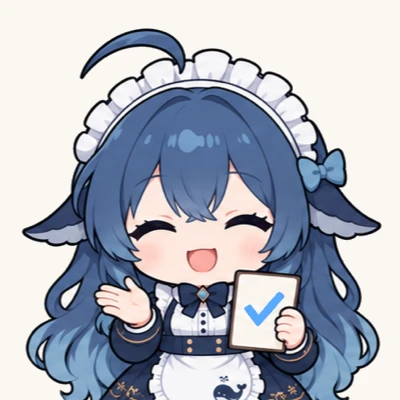
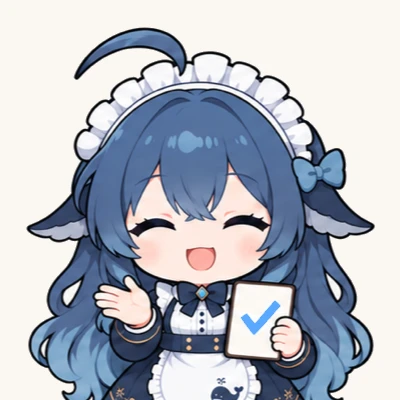
fix: clarify maid completion gesture and loop greeting

Changed region(s): [[0.03, 0.06, 0.96, 1.0], [0.48, 0.33, 0.54, 0.36]]

diff --git a/test/maid.test.ts b/test/maid.test.ts
@@ -62,7 +62,7 @@ test('half-body and centred portraits both use the complete canvas without a sec
 })
 
 type Manifest = {
-  source: { revision: string },
+  source: { revision: string, overrides?: { path: string, revision: string, manifestSha256: string } },
   encoding: { lossless: boolean, quality: number },
   states: Array<{ id: string, static: string, animation: string, frames: number, loopCount: number, staticSize: number[], animationSize: number[], durationsMs: number[] }>,
   sourceSha256: Record<string, string>,
@@ -97,7 +97,7 @@ function dimensionsOf(chunks: ReturnType<typeof chunksOf>): number[] {
   return [lossy.data.readUInt16LE(6) & 0x3fff, lossy.data.readUInt16LE(8) & 0x3fff]
 }
 
-test('runtime assets match their hashes, real dimensions, frame timings and greeting-only single playback', () => {
+test('runtime assets match their hashes, real dimensions, frame timings and framing-specific playback', () => {
   for (const directory of [ASSETS, path.join(ASSETS, 'avatars')]) {
     const manifest = JSON.parse(fs.readFileSync(path.join(directory, 'manifest.json'), 'utf8')) as Manifest
     assert.match(manifest.source.revision, /^[a-f0-9]{40}$/)
@@ -122,10 +122,47 @@ test('runtime assets match their hashes, real dimensions, frame timings and gree
         assert.equal(chunks.filter(chunk => chunk.kind === 'ANMF').length, state.frames)
         assert.deepEqual(dimensionsOf(chunks), state.animationSize)
         assert.deepEqual(chunks.filter(chunk => chunk.kind === 'ANMF').map(chunk => chunk.data.readUIntLE(12, 3)), state.durationsMs)
-        assert.equal(anim.data.readUInt16LE(4), state.id === 'greeting' ? 1 : 0, state.id)
+        const expectedLoops = state.id === 'greeting' && directory !== ASSETS ? 1 : 0
+        assert.equal(anim.data.readUInt16LE(4), expectedLoops, `${path.basename(directory)}/${state.id}`)
         assert.equal(anim.data.readUInt16LE(4), state.loopCount)
       }
     }
+  }
+})
+
+test('the half-body greeting keeps waving and completion lifts the card with a held thumbs-up', () => {
+  const manifest = JSON.parse(fs.readFileSync(path.join(ASSETS, 'manifest.json'), 'utf8')) as Manifest
+  const greeting = manifest.states.find(state => state.id === 'greeting')!
+  assert.equal(greeting.loopCount, 0)
+  assert.equal(greeting.frames, 15)
+  assert.equal(greeting.durationsMs.reduce((sum, ms) => sum + ms, 0), 1980)
+  assert.equal(greeting.durationsMs.at(-1), 720, 'a short rest between wrist waves')
+  const done = manifest.states.find(state => state.id === 'done')!
+  assert.deepEqual(done.staticSize, [400, 400])
+  assert.deepEqual(done.animationSize, [256, 256])
+  assert.equal(done.frames, 11)
+  assert.equal(done.loopCount, 0)
+  assert.equal(done.durationsMs.reduce((sum, ms) => sum + ms, 0), 2590)
+  assert.equal(done.durationsMs[5], 850, 'hold the completed-task gesture at its high point')
+})
+
+test('approved runtime overrides are reproducible without another lossy encoding pass', () => {
+  const manifest = JSON.parse(fs.readFileSync(path.join(ASSETS, 'manifest.json'), 'utf8')) as Manifest
+  const overrides = manifest.source.overrides!
+  assert.equal(overrides.path, 'build/maid-overrides')
+  const directory = path.resolve(ASSETS, '../../..', overrides.path)
+  const bytes = fs.readFileSync(path.join(directory, 'manifest.json'))
+  assert.equal(createHash('sha256').update(bytes).digest('hex'), overrides.manifestSha256)
+  const source = JSON.parse(bytes.toString('utf8')) as {
+    revision: string,
+    files: Record<string, { sha256: string, sourceSha256: string }>,
+  }
+  assert.equal(source.revision, overrides.revision)
+  assert.deepEqual(Object.keys(source.files).sort(), ['done-motion.webp', 'done.webp', 'greeting-motion.webp'])
+  for (const [file, expected] of Object.entries(source.files)) {
+    assert.equal(createHash('sha256').update(fs.readFileSync(path.join(directory, file))).digest('hex'), expected.sha256)
+    assert.equal(manifest.sha256[file], expected.sha256, file)
+    assert.equal(manifest.sourceSha256[file], expected.sourceSha256, file)
   }
 })
 

diff --git a/test/smoke/critical.spec.ts b/test/smoke/critical.spec.ts
@@ -238,6 +238,17 @@ test('centred chat avatars and the folded desktop island animate without restart
       replacements, retained: face.firstChild === hovered, folded: island.el.dataset.open, hovered: island.el.dataset.hover === 'true' }
   })
   expect(stateGallery).toEqual({ loaded: true, count: 21, replacements: 0, retained: true, folded: 'false', hovered: true })
+  // Wait beyond the old one-shot greeting, then check the actual compressed
+  // half-body artwork still advances in the production renderer.
+  await page.waitForTimeout(2100)
+  for (const mood of ['greeting', 'done']) {
+    const image = page.locator(`#portrait-gallery .maid[data-mood="${mood}"][data-framing="whole"] .maid-image`)
+    const samples = new Set<string>()
+    await expect.poll(async () => {
+      samples.add(createHash('sha256').update(await image.screenshot({ animations: 'allow' })).digest('hex'))
+      return samples.size
+    }, { message: `${mood} keeps animating after the original greeting would have stopped` }).toBeGreaterThan(1)
+  }
   await page.screenshot({ path: info.outputPath('all-animated-states.png') })
   await page.locator('#portrait-gallery').evaluate(gallery => gallery.remove())
 

diff --git a/scripts/optimize-maid-assets.py b/scripts/optimize-maid-assets.py
@@ -1,4 +1,4 @@
-"""Export bounded runtime WebP assets from the recorded delivery commit.
+"""Export bounded runtime WebP assets from the delivery commit and approved overrides.
 
 Development-only tool. Requires Pillow 12.0.0 with libwebp 1.6.0.
 Use --output with a new directory, inspect the result, then copy it to src/assets/maid.
@@ -18,6 +18,7 @@ from PIL import Image, features
 ROOT = Path(__file__).resolve().parents[1]
 SOURCE = '463fac186619fcf1bbdb8746035fc2fb21c168e5'
 OPTIONS = dict(format='WEBP', lossless=False, quality=90, method=4, exact=True)
+OVERRIDES = ROOT / 'build/maid-overrides'
 
 
 def source_bytes(relative):
@@ -52,7 +53,35 @@ def encode(source, target):
     return dict(size=list(image.size), frames=len(frames), durations=durations, loop=image.info.get('loop', 0))
 
 
+def copy_override(name, output, overrides):
+    """Keep reviewed quality-90 bytes intact instead of encoding a lossy image again."""
+    entry = overrides['files'].get(name)
+    if entry is None:
+        return None
+    if Path(name).name != name or not name.endswith('.webp'):
+        raise ValueError(f'Invalid override filename: {name}')
+    source = (OVERRIDES / name).read_bytes()
+    if hashlib.sha256(source).hexdigest() != entry['sha256']:
+        raise ValueError(f'Override digest mismatch for {name}')
+    with Image.open(io.BytesIO(source)) as image:
+        durations = []
+        for index in range(image.n_frames):
+            image.seek(index)
+            image.load()
+            if image.convert('RGBA').getextrema()[3] != (255, 255):
+                raise ValueError(f'Override must be opaque: {name}')
+            durations.append(image.info.get('duration', 0))
+        metadata = dict(size=list(image.size), frames=image.n_frames,
+                        durations=durations, loop=image.info.get('loop', 0))
+    if metadata != entry['metadata']:
+        raise ValueError(f'Override playback metadata mismatch for {name}')
+    (output / name).write_bytes(source)
+    return metadata, entry['sourceSha256']
+
+
 def export(directory):
+    override_bytes = (OVERRIDES / 'manifest.json').read_bytes()
+    overrides = json.loads(override_bytes)
     for framing in ['', 'avatars']:
         relative = '/'.join(part for part in ['src/assets/maid', framing] if part)
         delivered = json.loads(source_bytes(f'{relative}/manifest.json'))
@@ -64,16 +93,25 @@ def export(directory):
                         encoding=dict(pillow=PIL.__version__, libwebp=features.version('webp'),
                         lossless=False, quality=90, method=4, minimize_size=True),
                         background='#FAF7F2', alpha=False, states=[], sourceSha256={}, sha256={})
+        if not framing:
+            if overrides['encoding'] != manifest['encoding']:
+                raise ValueError('Override encoding must match the recorded runtime encoder')
+            manifest['source']['overrides'] = dict(path='build/maid-overrides',
+                revision=overrides['revision'], manifestSha256=hashlib.sha256(override_bytes).hexdigest())
         for state in delivered['states']:
             still = f"{state['id']}.webp"
             motion = f"{state['id']}-motion.webp"
             metadata = {}
             for file in [still, motion]:
-                source = source_bytes(f'{relative}/{file}')
-                digest = hashlib.sha256(source).hexdigest()
-                if digest != delivered['sha256'][f'webp/{file}']:
-                    raise ValueError(f'Source digest mismatch for {relative}/{file}')
-                metadata[file] = encode(source, output / file)
+                replacement = copy_override(file, output, overrides) if not framing else None
+                if replacement is not None:
+                    metadata[file], digest = replacement
+                else:
+                    source = source_bytes(f'{relative}/{file}')
+                    digest = hashlib.sha256(source).hexdigest()
+                    if digest != delivered['sha256'][f'webp/{file}']:
+                        raise ValueError(f'Source digest mismatch for {relative}/{file}')
+                    metadata[file] = encode(source, output / file)
                 manifest['sourceSha256'][file] = digest
                 manifest['sha256'][file] = hashlib.sha256((output / file).read_bytes()).hexdigest()
             animation = metadata[motion]

diff --git a/docs/ui-guidelines.md b/docs/ui-guidelines.md
@@ -194,22 +194,22 @@ Motion:
 
 ## Her character
 
-Viva appears as a maid with slate-blue hair and a navy uniform. Half-body art uses the V7 Viva palette release; conversation portraits use the centred V2.2 release. Expressions, movement and props convey state without overlaid bubbles.
+Viva appears as a maid with slate-blue hair and a navy uniform. Half-body art uses the V7 Viva palette release, with the V7.1 greeting loop and V7.2 completion gesture; conversation portraits use the centred V2.2 release. Expressions, movement and props convey state without overlaid bubbles.
 
-**Assets** live in `src/assets/maid/`. Ten half-body states each have a still and an animation. Stills are 400×400, the greeting animation is 400×400, and the others are 256×256. `avatars/` holds ten dedicated conversation portraits, with stills and animations at 256×256. Runtime images use quality-90 opaque WebP on `#FAF7F2`, matching `--maid-paper`. Each manifest records the delivery commit, source and runtime hashes, canvas sizes, frame durations and loops. Greeting plays once, all other states loop, and `listening` reuses `ask`.
+**Assets** live in `src/assets/maid/`. Ten half-body states each have a still and an animation. Stills are 400×400, the greeting animation is 400×400, and the others are 256×256. `avatars/` holds ten dedicated conversation portraits, with stills and animations at 256×256. Runtime images use quality-90 opaque WebP on `#FAF7F2`, matching `--maid-paper`. Each manifest records the base delivery commit, approved overrides, source and runtime hashes, canvas sizes, frame durations and loops. The half-body greeting repeats every 1.98 seconds with a 720 ms rest; the conversation greeting plays once. Completion raises the check card with a thumbs-up, holds for 850 ms and returns in a 2.59-second loop. All other states loop, and `listening` reuses `ask`.
 
-The two sets together have a 4 MiB runtime budget, with a 512 KiB animation limit, a 128 KiB portrait-animation limit and a 32 KiB still limit, enforced by `test/maid.test.ts`. Production contains the runtime images and their manifests. Reproduce them with `python scripts/optimize-maid-assets.py --output ../maid-runtime`, using the development-only Pillow 12.0.0 tool with libwebp 1.6.0. The source objects come from delivery commit `463fac186619fcf1bbdb8746035fc2fb21c168e5`, available through `git fetch origin 463fac186619fcf1bbdb8746035fc2fb21c168e5`. The export keeps canvas sizes, frame order, timing and loops. Its quality setting uses lossy compression.
+The two sets together have a 4 MiB runtime budget, with a 512 KiB animation limit, a 128 KiB portrait-animation limit and a 32 KiB still limit, enforced by `test/maid.test.ts`. Production contains the runtime images and their manifests. Reproduce them with `python scripts/optimize-maid-assets.py --output ../maid-runtime`, using the development-only Pillow 12.0.0 tool with libwebp 1.6.0. The base source objects come from delivery commit `463fac186619fcf1bbdb8746035fc2fb21c168e5`, available through `git fetch origin 463fac186619fcf1bbdb8746035fc2fb21c168e5`. Approved greeting and completion overrides are tracked in `build/maid-overrides/` with their original delivery hashes and playback metadata. They are already compressed once with the same settings; the exporter validates and copies those exact bytes, avoiding another lossy pass. Build-time override copies stay outside the packaged application. The export keeps canvas sizes, frame order, timing and loops.
 
 | State | Pose and prop | Animation | Ring | When |
 | --- | --- | --- | --- | --- |
-| `greeting` | Waving | Yes, plays once | Blue | The first time the home page shows after launch |
+| `greeting` | Wrist wave, then a short rest | Loops in half-body; once in portraits | Blue | The first time the home page shows after launch |
 | `idle` | Half-body teacup; portrait blinking at rest | Yes | Quiet | Nothing is going on |
 | `thinking` | Half-body pencil; portrait touching her cheek | Yes | Blue | A question arrived and writing hasn't started |
 | `typing` | Square glasses, typing | Yes | Blue | Streaming an answer, running tools |
 | `ask` | Half-body hand to earcup; portrait headset | Yes | Orange | The assistant is asking you |
 | `listening` | The asking pictures | Yes | Blue | Files are held over the desktop island; nothing waits on you, so blue and no badge |
 | `confirm` | Half-body clipboard; portrait palm-up gesture | Yes | Orange | Approval cards, the desktop island |
-| `done` | Half-body check card; portrait thumbs-up | Yes | Blue | A turn finished, something is ready |
+| `done` | Half-body raises the check card and gives a thumbs-up; portrait thumbs-up | Yes | Blue | A turn finished, something is ready |
 | `error` | Half-body wrench; worried portrait | Yes | Red | An answer failed |
 | `offline` | Half-body unplugged connector; half-lidded portrait | Yes | Gray | No model connected yet, connecting |
 | `sleeping` | Half-body pillow; portrait breathing with closed eyes | Yes | Quiet | Not used at present |

diff --git a/docs/ui-guidelines.zh-CN.md b/docs/ui-guidelines.zh-CN.md
@@ -194,22 +194,22 @@ Viva 现有界面的视觉和交互规则，从 `src/renderer/styles.css`、`isl
 
 ## 她的形象
 
-Viva 是一位蓝灰发、藏青制服的女仆。半身图使用 V7 Viva 配色版，对话头像使用 V2.2 居中版；状态靠表情、动作和道具表达，不加浮层气泡。
+Viva 是一位蓝灰发、藏青制服的女仆。半身图使用 V7 Viva 配色版，并包含 V7.1 问候循环与 V7.2 完成动作；对话头像使用 V2.2 居中版。状态靠表情、动作和道具表达，不加浮层气泡。
 
-**素材**在 `src/assets/maid/`。十种半身状态各有静图与动图，静图为 400×400，问候动图为 400×400，其余动图为 256×256。`avatars/` 保存十种专用对话头像，动静图均为 256×256。发行图采用质量 90 的不透明 WebP，背景为 `#FAF7F2`，与 `--maid-paper` 一致。每份清单记录交付提交、源文件和发行图哈希、画布尺寸、逐帧时长与循环次数。问候只播一次，其余状态循环，`listening` 复用 `ask`。
+**素材**在 `src/assets/maid/`。十种半身状态各有静图与动图，静图为 400×400，问候动图为 400×400，其余动图为 256×256。`avatars/` 保存十种专用对话头像，动静图均为 256×256。发行图采用质量 90 的不透明 WebP，背景为 `#FAF7F2`，与 `--maid-paper` 一致。每份清单记录基础交付提交、已确认的替换素材、源文件和发行图哈希、画布尺寸、逐帧时长与循环次数。半身问候每 1.98 秒循环，轮间停顿 720ms；对话问候只播一次。完成状态举起勾选卡并竖拇指，在高点停留 850ms，再回位，2.59 秒循环。其余状态循环，`listening` 复用 `ask`。
 
-两组运行素材的合计预算为 4 MiB，单个动图上限 512 KiB、头像动图上限 128 KiB、静图上限 32 KiB，由 `test/maid.test.ts` 强制校验。发行内容包含运行图及其清单。复现命令为 `python scripts/optimize-maid-assets.py --output ../maid-runtime`，开发工具使用 Pillow 12.0.0 及其 libwebp 1.6.0。源对象固定于交付提交 `463fac186619fcf1bbdb8746035fc2fb21c168e5`，可通过 `git fetch origin 463fac186619fcf1bbdb8746035fc2fb21c168e5` 获取。导出保留画布尺寸、帧顺序、时长和循环，质量设置采用有损压缩。
+两组运行素材的合计预算为 4 MiB，单个动图上限 512 KiB、头像动图上限 128 KiB、静图上限 32 KiB，由 `test/maid.test.ts` 强制校验。发行内容包含运行图及其清单。复现命令为 `python scripts/optimize-maid-assets.py --output ../maid-runtime`，开发工具使用 Pillow 12.0.0 及其 libwebp 1.6.0。基础源对象固定于交付提交 `463fac186619fcf1bbdb8746035fc2fb21c168e5`，可通过 `git fetch origin 463fac186619fcf1bbdb8746035fc2fb21c168e5` 获取。已确认的问候与完成替换素材保存在 `build/maid-overrides/`，清单记录原交付哈希和播放参数。这些素材已用相同参数压缩一次；导出工具校验后原样复制，避免重复有损压缩。构建用的替换副本不进入发行应用。导出保留画布尺寸、帧顺序、时长和循环。
 
 | 状态 | 姿势和道具 | 动图 | 描边 | 什么时候 |
 | --- | --- | --- | --- | --- |
-| `greeting` 问候 | 挥手 | 有，只播一遍 | 蓝 | 启动后第一次显示首页 |
+| `greeting` 问候 | 摆手后短暂停顿 | 半身循环，头像只播一遍 | 蓝 | 启动后第一次显示首页 |
 | `idle` 待命 | 半身捧茶杯，头像眨眼待命 | 有 | 平静 | 没事的时候 |
 | `thinking` 思考 | 半身握铅笔，头像托脸抬眼 | 有 | 蓝 | 收到问题、还没开始写 |
 | `typing` 回答中 | 戴方框眼镜敲键盘 | 有 | 蓝 | 流式回答、调用工具 |
 | `ask` 提问 | 半身扶耳罩，头像佩戴耳麦 | 有 | 橙 | 助手在问你 |
 | `listening` 在听 | 同提问的图 | 有 | 蓝 | 文件拖到桌面岛上时；不在等你，所以是蓝色、不带角标 |
 | `confirm` 需要你确认 | 半身夹板，头像摊手 | 有 | 橙 | 审批卡片、桌面岛 |
-| `done` 已完成 | 半身举对勾卡，头像竖拇指 | 有 | 蓝 | 一轮结束、有准备好的事 |
+| `done` 已完成 | 半身举对勾卡并竖拇指，头像竖拇指 | 有 | 蓝 | 一轮结束、有准备好的事 |
 | `error` 出错 | 半身拿扳手，头像为难表情 | 有 | 红 | 回答失败 |
 | `offline` 连不上 | 半身拿断开的接头，头像半睁眼 | 有 | 灰 | 还没连上模型、正在连接 |
 | `sleeping` 休眠 | 半身抱枕，头像闭眼呼吸 | 有 | 平静 | 目前不用 |

diff --git a/build/maid-overrides/README.md b/build/maid-overrides/README.md
@@ -1,0 +1,10 @@
+# Approved half-body runtime overrides
+
+These quality-90 WebP files supersede three files from the base V7 delivery:
+
+- `greeting-motion.webp`: V7.1 wrist wave, 1.98-second loop with a 720 ms rest.
+- `done.webp` and `done-motion.webp`: V7.2 card lift and thumbs-up; 400px still, 256px animation, 11 frames and a 2.59-second loop with an 850 ms high-point hold.
+
+They were exported once from the approved lossless deliveries with Pillow 12.0.0 / libwebp 1.6.0, quality 90, method 4 and animation size minimization. `manifest.json` records original lossless delivery hashes, compressed hashes and playback metadata.
+
+`scripts/optimize-maid-assets.py` validates and copies these exact compressed bytes when reproducing `src/assets/maid/`. It does not encode a lossy copy again. The rest of the art still comes from the recorded base delivery commit. This directory stays outside `out/` and the packaged application; production uses only the copies in `src/assets/maid/`.
